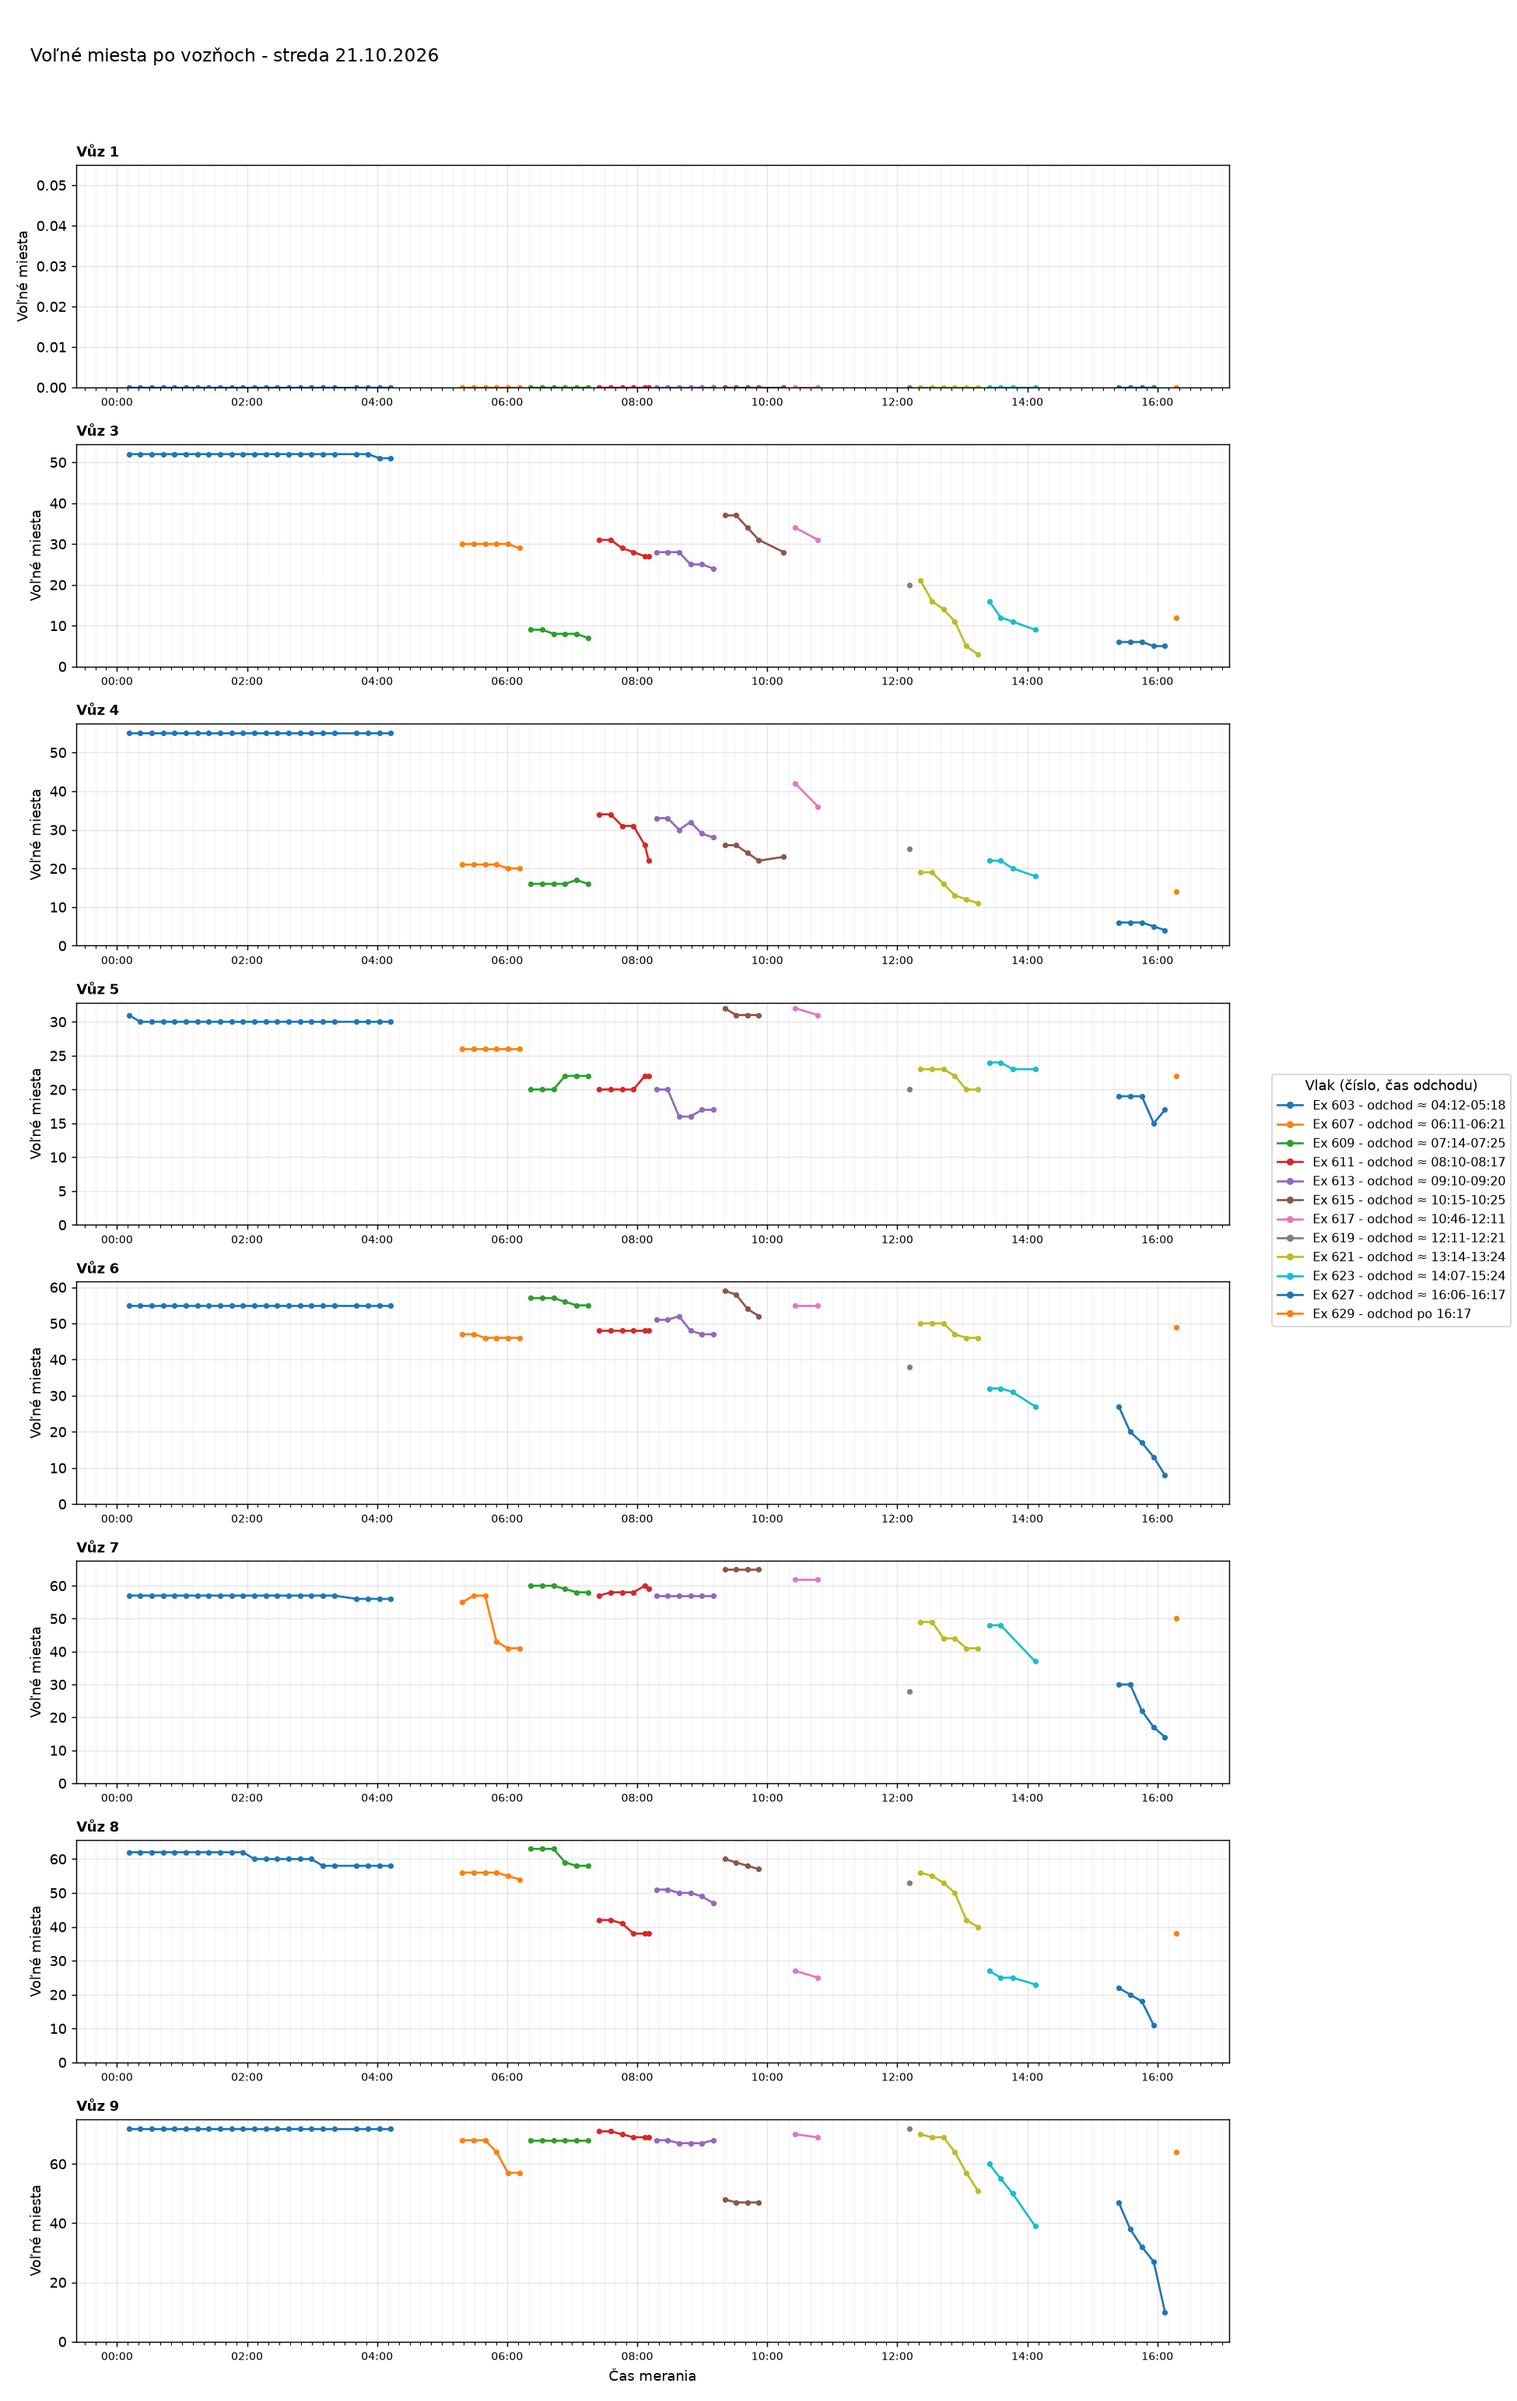
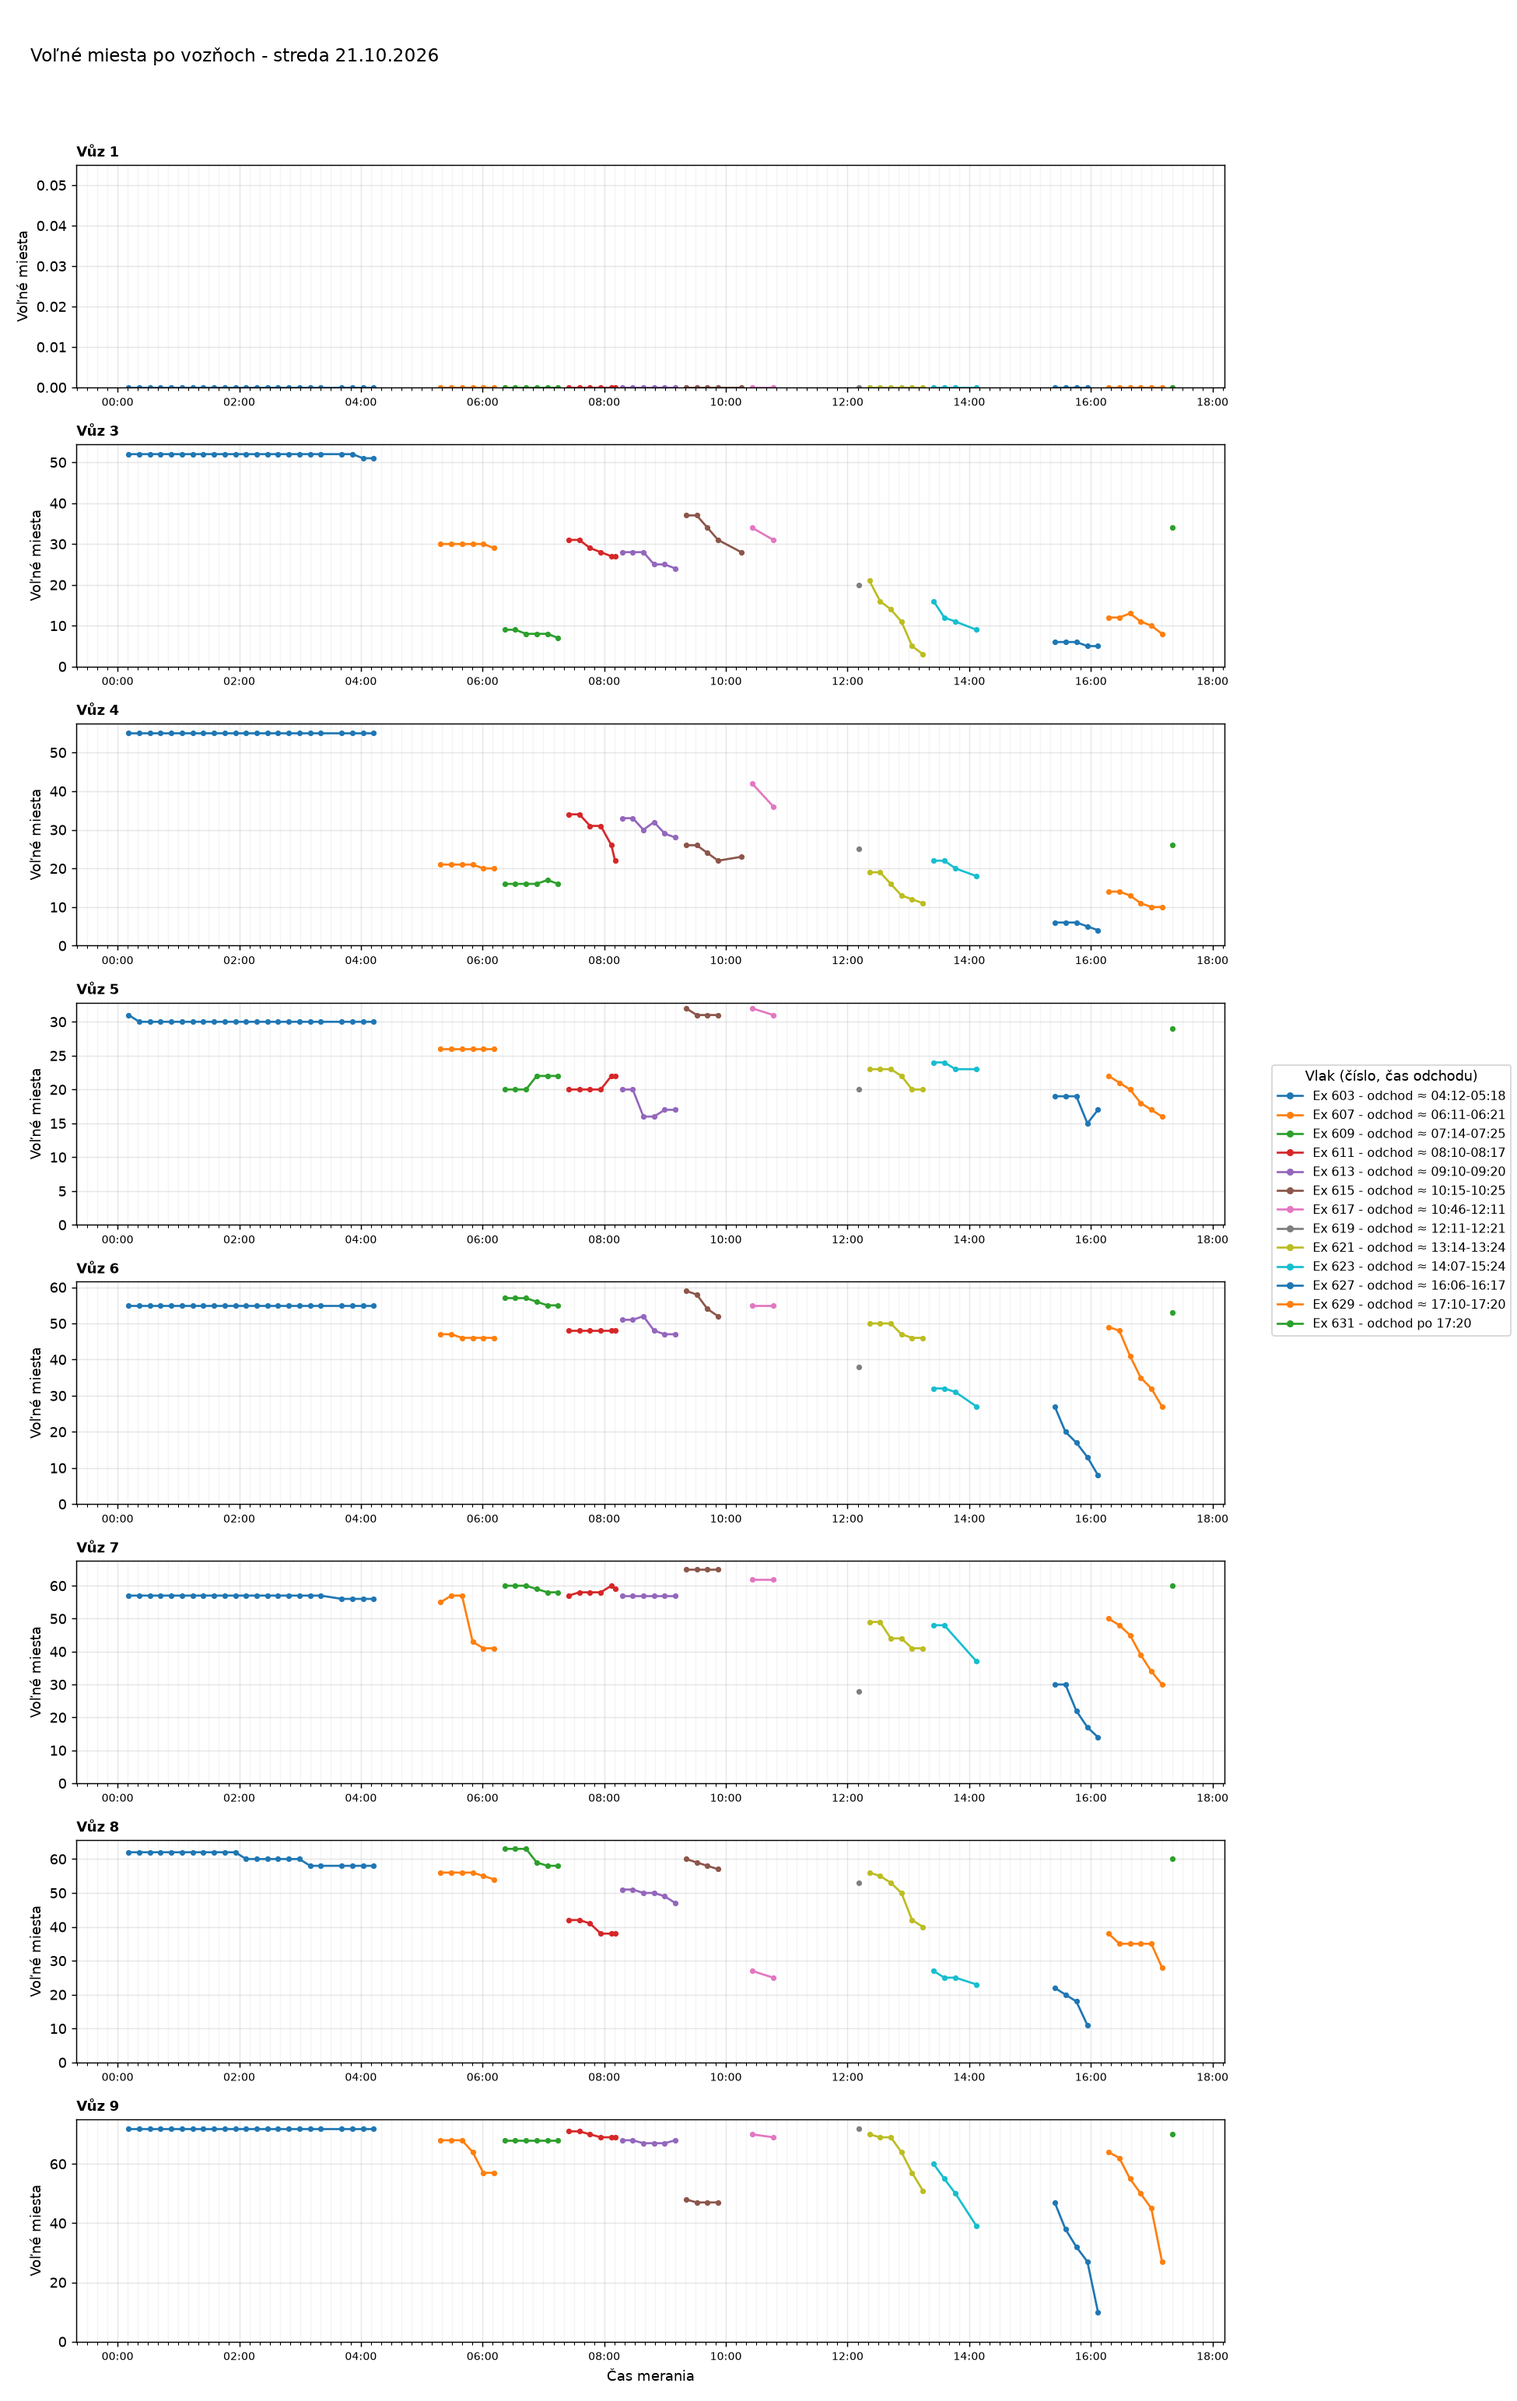
Aktualizácia grafov 2026-10-21 17:24

diff --git a/index.html b/index.html
@@ -30,7 +30,7 @@ img{display:block;width:100%;height:auto;background:#fff;border-radius:6px;
 <body>
 <main>
 <h1>Voľné miesta vo vlakoch</h1>
-<p class="muted">Posledné meranie: 21.10.2026 16:17 ·
+<p class="muted">Posledné meranie: 21.10.2026 17:20 ·
 <a href="data/obsadenost_data.csv">stiahnuť dáta (CSV)</a></p>
 
 <section class="card">
@@ -38,7 +38,7 @@ img{display:block;width:100%;height:auto;background:#fff;border-radius:6px;
 <div class="tablewrap"><table>
 <thead><tr><th>Deň</th><th>Meraní</th><th>Vlakov</th><th>Čas meraní</th></tr></thead>
 <tbody>
-<tr><td><a href="#d2026-10-21">streda 21.10.2026</a></td><td>71</td><td>12</td><td>00:10-16:17</td></tr>
+<tr><td><a href="#d2026-10-21">streda 21.10.2026</a></td><td>77</td><td>13</td><td>00:10-17:20</td></tr>
 <tr><td><a href="#d2026-10-20">utorok 20.10.2026</a></td><td>34</td><td>7</td><td>13:55-23:50</td></tr>
 </tbody></table></div>
 </section>
